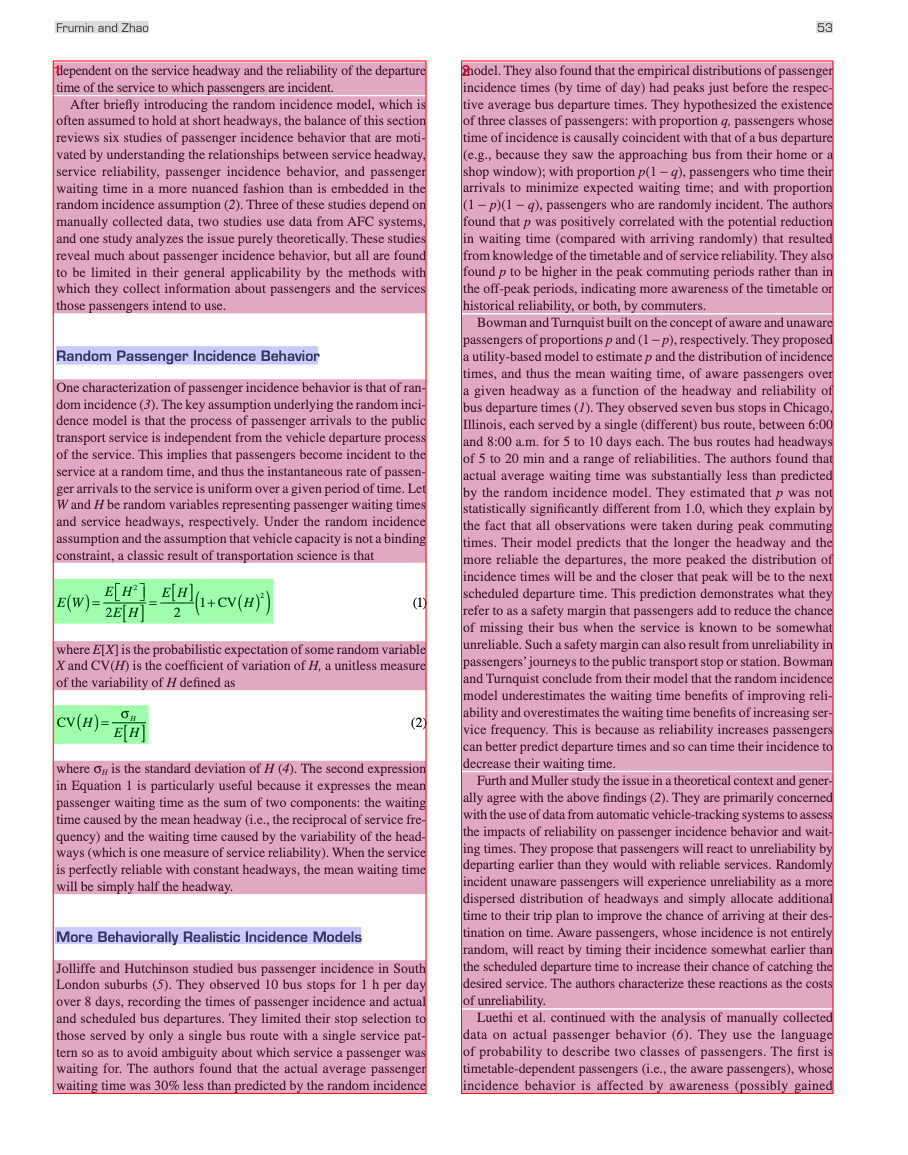
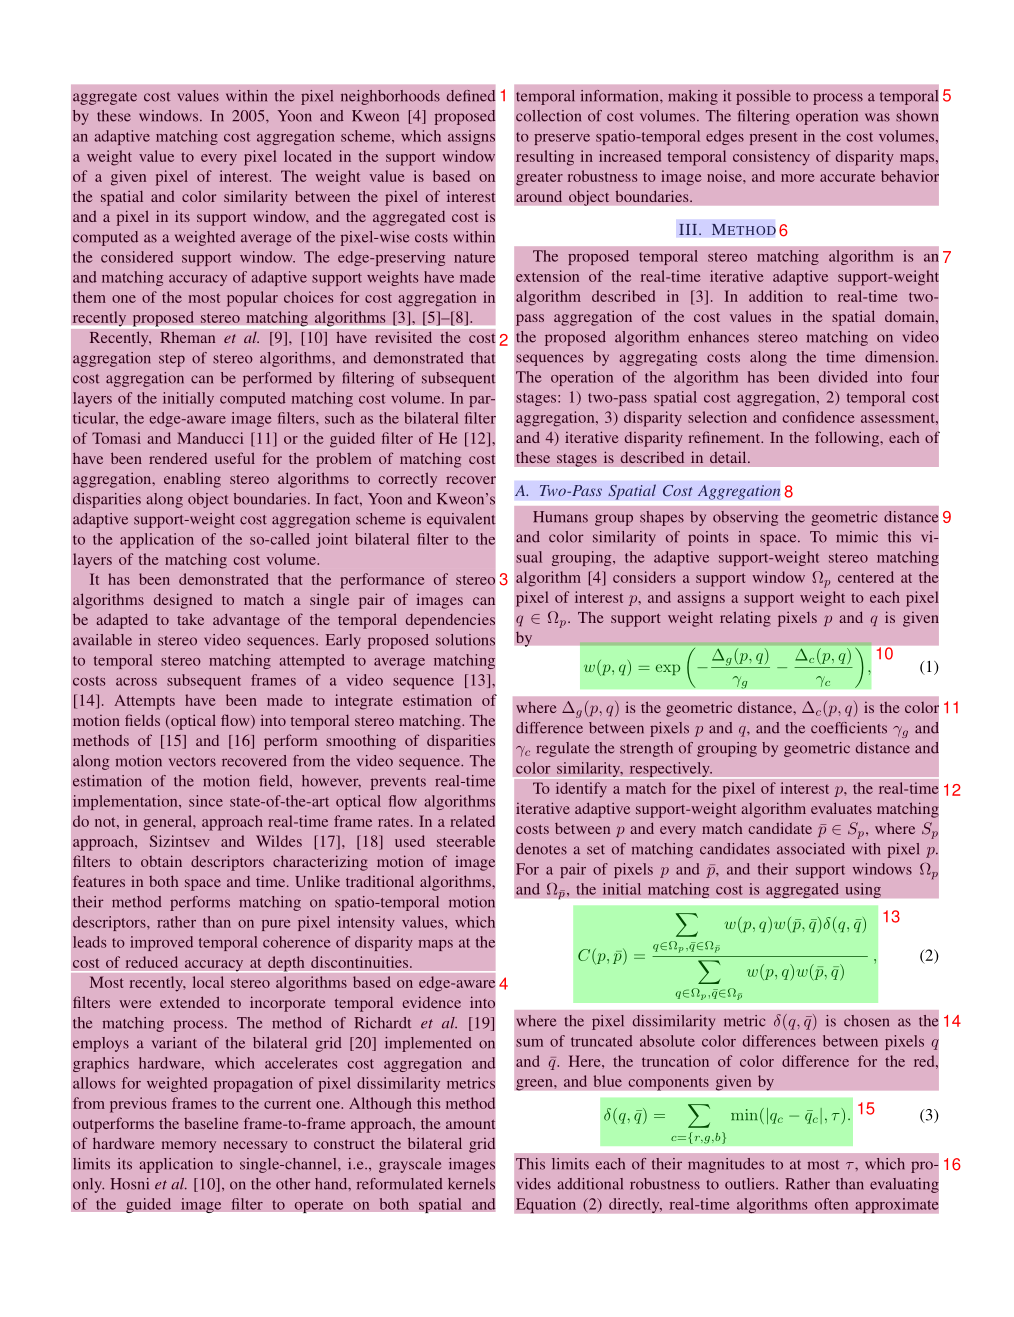
fix: update output file documentation for mineru command and enhance content descriptions in output_file_en_us.md and output_file_zh_cn.md

diff --git a/docs/output_file_en_us.md b/docs/output_file_en_us.md
@@ -1,20 +1,19 @@
 ## Overview
 
-After executing the `magic-pdf` command, in addition to outputting files related to markdown, several other files unrelated to markdown will also be generated. These files will be introduced one by one.
+After executing the `mineru` command, in addition to outputting files related to markdown, several other files unrelated to markdown will also be generated. These files will be introduced one by one.
 
 ### some_pdf_layout.pdf
 
-Each page layout consists of one or more boxes. The number at the top left of each box indicates its sequence number. Additionally, in `layout.pdf`, different content blocks are highlighted with different background colors.
-
+Each page's layout consists of one or more bounding boxes. The number in the top-right corner of each box indicates the reading order. Additionally, different content blocks are highlighted with distinct background colors within the layout.pdf.
 ![layout example](images/layout_example.png)
 
-### some_pdf_spans.pdf
+### some_pdf_spans.pdf(Applicable only to the pipeline backend)
 
 All spans on the page are drawn with different colored line frames according to the span type. This file can be used for quality control, allowing for quick identification of issues such as missing text or unrecognized inline formulas.
 
 ![spans example](images/spans_example.png)
 
-### some_pdf_model.json
+### some_pdf_model.json(Applicable only to the pipeline backend)
 
 #### Structure Definition
 
@@ -117,13 +116,39 @@ The format of the poly coordinates is \[x0, y0, x1, y1, x2, y2, x3, y3\], repres
 ]
 ```
 
+### some_pdf_model_output.txt (Applicable only to the VLM backend)
+
+This file contains the output of the VLM model, with each page's output separated by `----`.  
+Each page's output consists of text blocks starting with `<|box_start|>` and ending with `<|md_end|>`.  
+The meaning of each field is as follows:  
+- `<|box_start|>x0 y0 x1 y1<|box_end|>`  
+  x0 y0 x1 y1 represent the coordinates of a quadrilateral, indicating the top-left and bottom-right points. The values are based on a normalized page size of 1000x1000.
+- `<|ref_start|>type<|ref_end|>`  
+  `type` indicates the block type. Possible values are:
+  ```json
+  {
+      "text": "Text",
+      "title": "Title",
+      "image": "Image",
+      "image_caption": "Image Caption",
+      "image_footnote": "Image Footnote",
+      "table": "Table",
+      "table_caption": "Table Caption",
+      "table_footnote": "Table Footnote",
+      "equation": "Interline Equation"
+  }
+  ```
+- `<|md_start|>Markdown content<|md_end|>`  
+  This field contains the Markdown content of the block. If `type` is `text`, the end of the text may contain the `<|txt_contd|>` tag, indicating that this block can be connected with the following `text` block(s).
+  If `type` is `table`, the content is in `otsl` format and needs to be converted into HTML for rendering in Markdown.
+
 ### some_pdf_middle.json
 
 | Field Name     | Description                                                                                                    |
-| :------------- | :------------------------------------------------------------------------------------------------------------- |
+|:---------------| :------------------------------------------------------------------------------------------------------------- |
 | pdf_info       | list, each element is a dict representing the parsing result of each PDF page, see the table below for details |
-| \_parse_type   | ocr \| txt, used to indicate the mode used in this intermediate parsing state                                  |
-| \_version_name | string, indicates the version of magic-pdf used in this parsing                                                |
+| \_backend      | pipeline \| vlm, used to indicate the mode used in this intermediate parsing state                                  |
+| \_version_name | string, indicates the version of mineru used in this parsing                                                |
 
 <br>
 
@@ -324,7 +349,20 @@ First-level block (if any) -> Second-level block -> Line -> Span
             ]
         }
     ],
-    "_parse_type": "txt",
+    "_backend": "pipeline",
     "_version_name": "0.6.1"
 }
 ```
+
+
+### some_pdf_content_list.json
+
+This file is a JSON array where each element is a dict storing all readable content blocks in the document in reading order.  
+`content_list` can be viewed as a simplified version of `middle.json`. The content block types are mostly consistent with those in `middle.json`, but layout information is not included.  
+
+Please note that both `title` and text blocks in `content_list` are uniformly represented using the text type. The `text_level` field is used to distinguish the hierarchy of text blocks:
+- A block without the `text_level` field or with `text_level=0` represents body text.
+- A block with `text_level=1` represents a level-1 heading.
+- A block with `text_level=2` represents a level-2 heading, and so on.
+
+Each dict contains the `page_idx` field, indicating the page number (starting from 0) where the content block resides.
